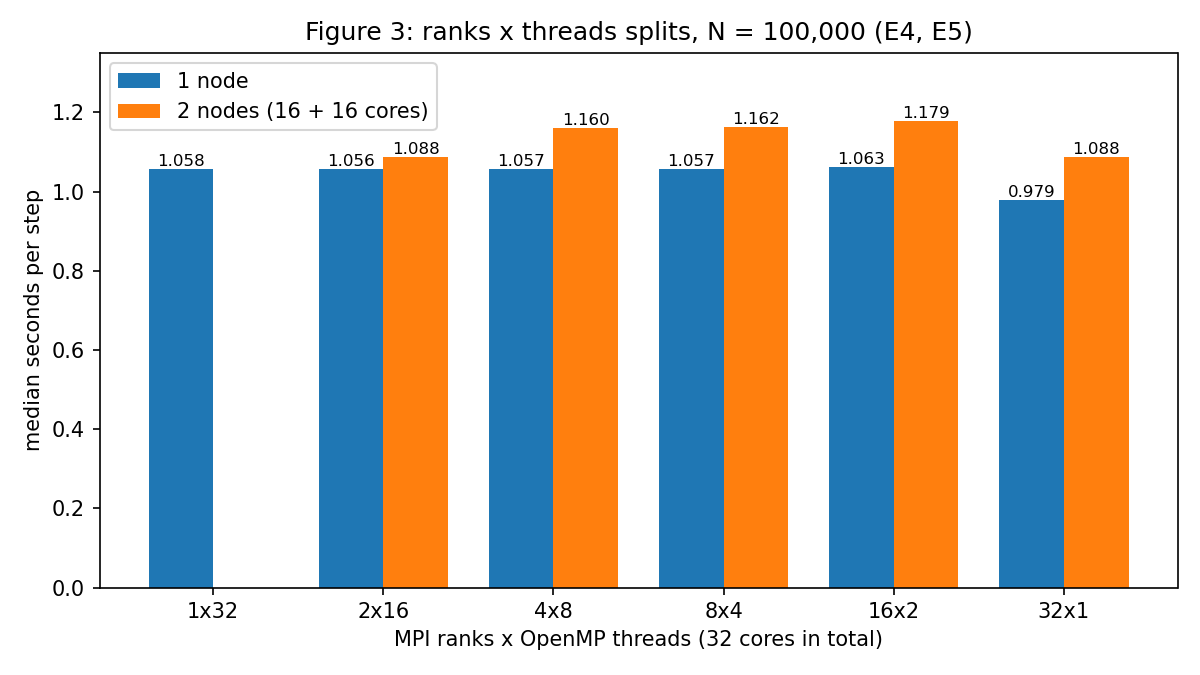
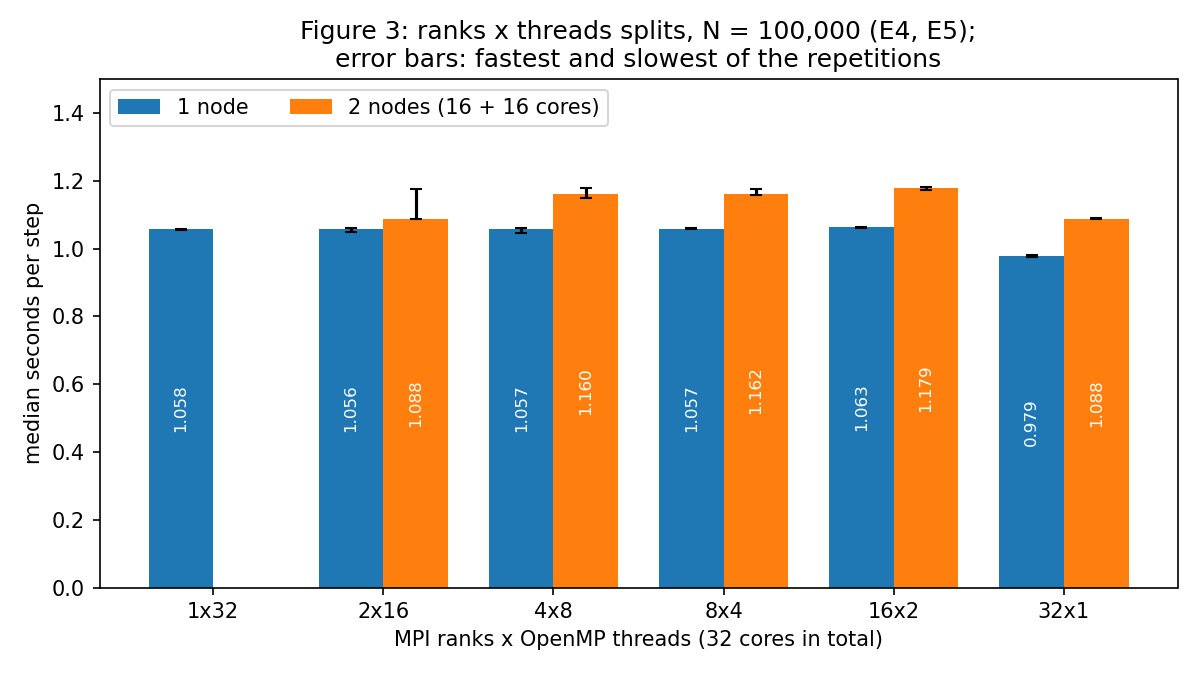
Plots: efficiency panel in fig 2, min-max error bars and inside labels in fig 3 (Fernando's #16 review)

diff --git a/scripts/plot_results.py b/scripts/plot_results.py
@@ -31,16 +31,21 @@ def read_timed_runs(path):
                 if row["run_kind"] == "timed"]
 
 
-def median_time(runs, **match):
-    """Median seconds_per_step of the runs whose columns have these values.
+def time_range(runs, **match):
+    """Median, minimum and maximum seconds_per_step of the matching runs.
 
-    Example: median_time(runs, backend="openmp", n=20000, omp_threads=4)
+    Example: time_range(runs, backend="openmp", n=20000, omp_threads=4)
     """
     times = [float(run["seconds_per_step"]) for run in runs
              if all(run[key] == str(value) for key, value in match.items())]
     if not times:
         raise ValueError(f"no timed runs found for {match}")
-    return statistics.median(times)
+    return statistics.median(times), min(times), max(times)
+
+
+def median_time(runs, **match):
+    """Median seconds_per_step of the matching runs (see time_range)."""
+    return time_range(runs, **match)[0]
 
 
 def save(figure, name):
@@ -97,18 +102,29 @@ def figure_mpi(runs, serial_runs):
     ranks = [1] + ranks
     speedup = [1.0] + [serial_time / t for t in times]
 
-    figure, axis = plt.subplots(figsize=(6, 4.5))
-    axis.plot(ranks, ranks, "k--", label="ideal")
-    axis.plot(ranks, speedup, "o-", label="pure MPI (1 thread per rank)")
-    axis.set_xscale("log", base=2)
-    axis.set_yscale("log", base=2)
-    axis.set_xticks(ranks, [str(r) for r in ranks])
-    axis.set_yticks(ranks, [str(r) for r in ranks])
-    axis.set_xlabel("MPI ranks")
-    axis.set_ylabel("speedup over serial")
-    axis.grid(True, alpha=0.3)
-    axis.legend()
-    axis.set_title("Figure 2: MPI strong scaling, N = 100,000 (E3)")
+    efficiency = [100 * s / r for s, r in zip(speedup, ranks)]
+
+    figure, (left, right) = plt.subplots(1, 2, figsize=(10, 4))
+
+    left.plot(ranks, ranks, "k--", label="ideal")
+    left.plot(ranks, speedup, "o-", label="pure MPI (1 thread per rank)")
+    left.set_yscale("log", base=2)
+    left.set_yticks(ranks, [str(r) for r in ranks])
+    left.set_xlabel("MPI ranks")
+    left.set_ylabel("speedup over serial")
+    left.legend()
+
+    right.plot(ranks, efficiency, "o-")
+    right.set_xlabel("MPI ranks")
+    right.set_ylabel("parallel efficiency (%)")
+    right.set_ylim(0, 110)
+
+    for axis in (left, right):
+        axis.set_xscale("log", base=2)
+        axis.set_xticks(ranks, [str(r) for r in ranks])
+        axis.grid(True, alpha=0.3)
+
+    figure.suptitle("Figure 2: MPI strong scaling, N = 100,000, one node (E3)")
     save(figure, "fig2_mpi_scaling.png")
 
 
@@ -121,24 +137,33 @@ def figure_splits(runs):
 
     figure, axis = plt.subplots(figsize=(8, 4.5))
     for nodes, shift in [(1, -width / 2), (2, width / 2)]:
-        xs, ys = [], []
+        xs, ys, below, above = [], [], [], []
         for position, (r, t) in zip(positions, splits):
             try:
-                ys.append(median_time(runs, backend="hybrid", n=100000,
-                                      nodes=nodes, mpi_ranks=r, omp_threads=t))
+                median, low, high = time_range(
+                    runs, backend="hybrid", n=100000, nodes=nodes,
+                    mpi_ranks=r, omp_threads=t)
             except ValueError:
                 continue  # e.g. 1x32 cannot run on 2 nodes
             xs.append(position + shift)
+            ys.append(median)
+            below.append(median - low)
+            above.append(high - median)
         name = "1 node" if nodes == 1 else "2 nodes (16 + 16 cores)"
-        bars = axis.bar(xs, ys, width, label=name)
-        axis.bar_label(bars, fmt="%.3f", fontsize=8)
+        # Error bars show the fastest and slowest of the repetitions.
+        bars = axis.bar(xs, ys, width, yerr=[below, above], capsize=3,
+                        label=name)
+        # Values written inside the bars, so neighbouring labels never overlap.
+        axis.bar_label(bars, fmt="%.3f", label_type="center", rotation=90,
+                       fontsize=8, color="white")
 
     axis.set_xticks(positions, labels)
     axis.set_xlabel("MPI ranks x OpenMP threads (32 cores in total)")
     axis.set_ylabel("median seconds per step")
-    axis.set_ylim(0, 1.35)
-    axis.legend()
-    axis.set_title("Figure 3: ranks x threads splits, N = 100,000 (E4, E5)")
+    axis.set_ylim(0, 1.5)
+    axis.legend(loc="upper left", ncol=2)
+    axis.set_title("Figure 3: ranks x threads splits, N = 100,000 (E4, E5);\n"
+                   "error bars: fastest and slowest of the repetitions")
     save(figure, "fig3_splits_nodes.png")
 
 
